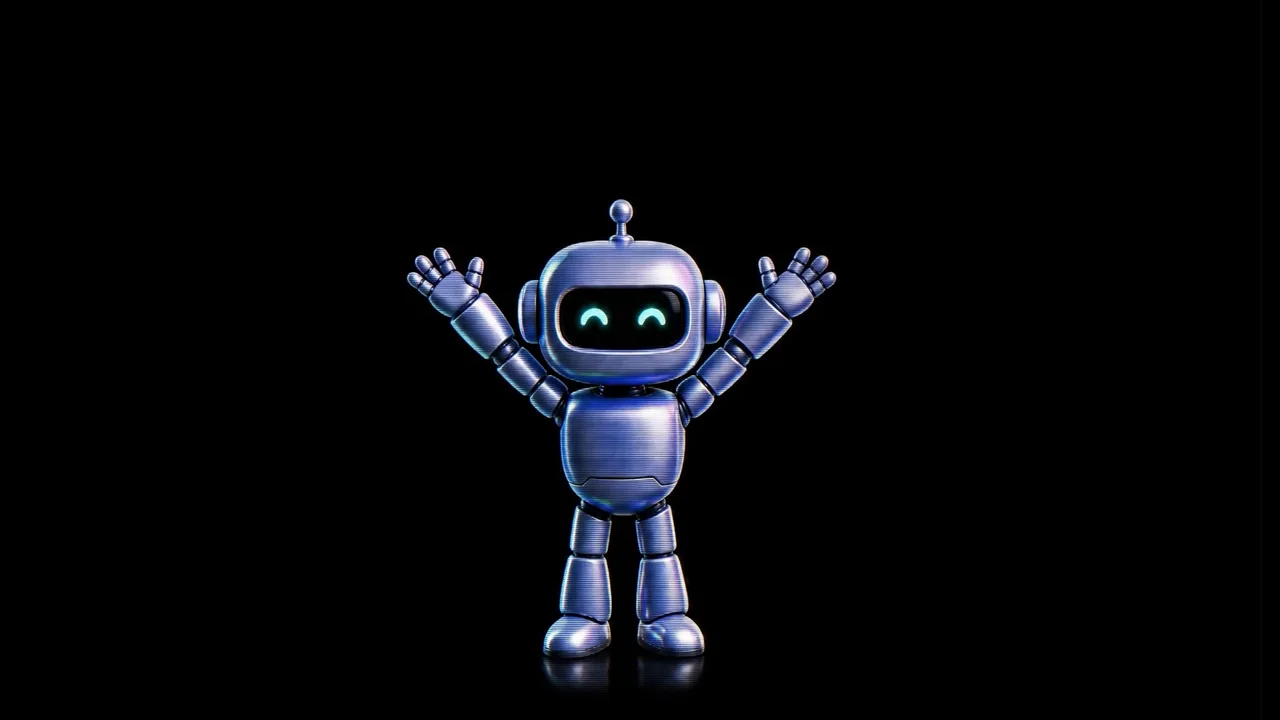
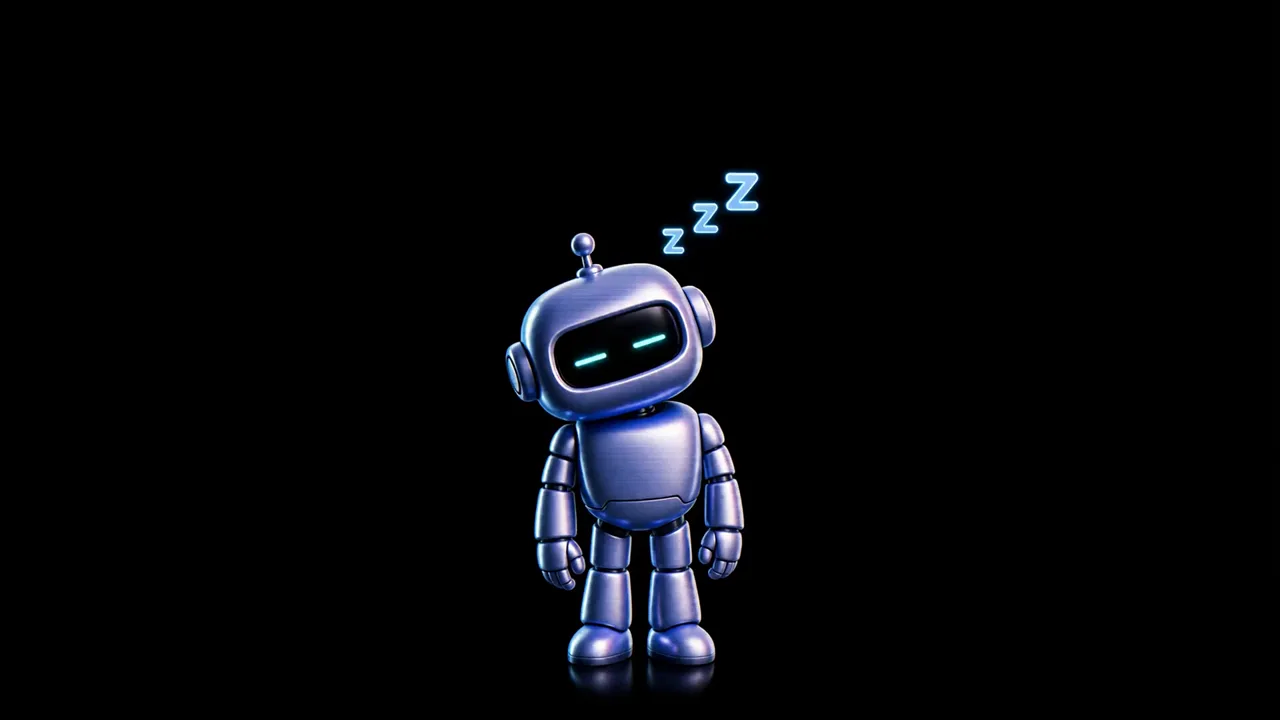
Fix: slaap-loop poster toonde hands-up Milo (frame uit master-video); vervangen door slapend frame + cache-bust v2

Changed region(s): [[0.3125, 0.2139, 0.6562, 0.9778]]

diff --git a/components/MiloHeaderShow.tsx b/components/MiloHeaderShow.tsx
@@ -164,7 +164,7 @@ const MiloHeaderShow: React.FC<MiloHeaderShowProps> = ({ phase, onStart, onFinis
       <div className={`absolute inset-x-0 bottom-0 mx-auto w-full max-w-[1100px] px-4 transition-opacity duration-400 ${miloGone ? 'opacity-0' : 'opacity-100'}`}>
         <video
           autoPlay muted loop playsInline preload="auto" aria-hidden="true"
-          poster={`${import.meta.env.BASE_URL}images/milo-header-poster.webp`}
+          poster={`${import.meta.env.BASE_URL}images/milo-header-poster.webp?v=2`}
           className={`w-full h-auto max-h-[46svh] object-contain object-bottom ${videoStarted ? 'opacity-0' : 'opacity-100'}`}
         >
           <source src={`${import.meta.env.BASE_URL}video/milo-sleep-loop.webm?v=1`} type="video/webm" />
